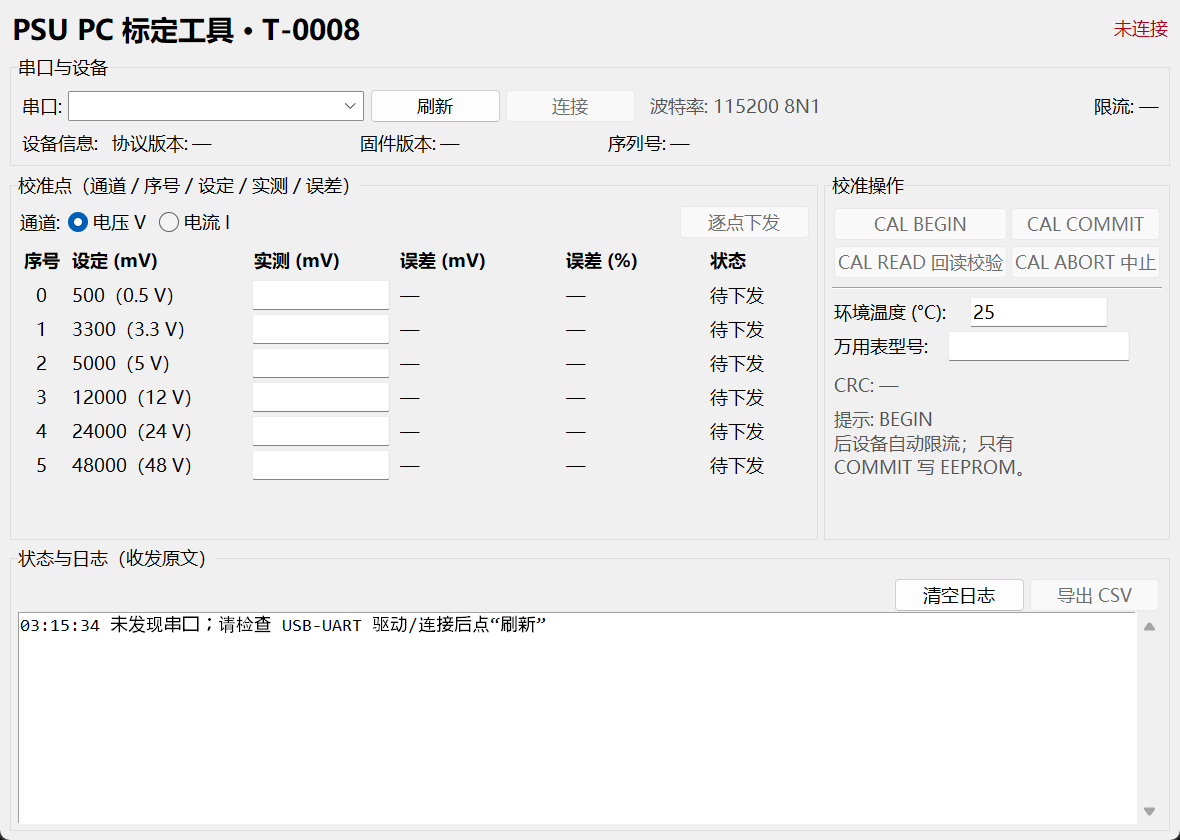
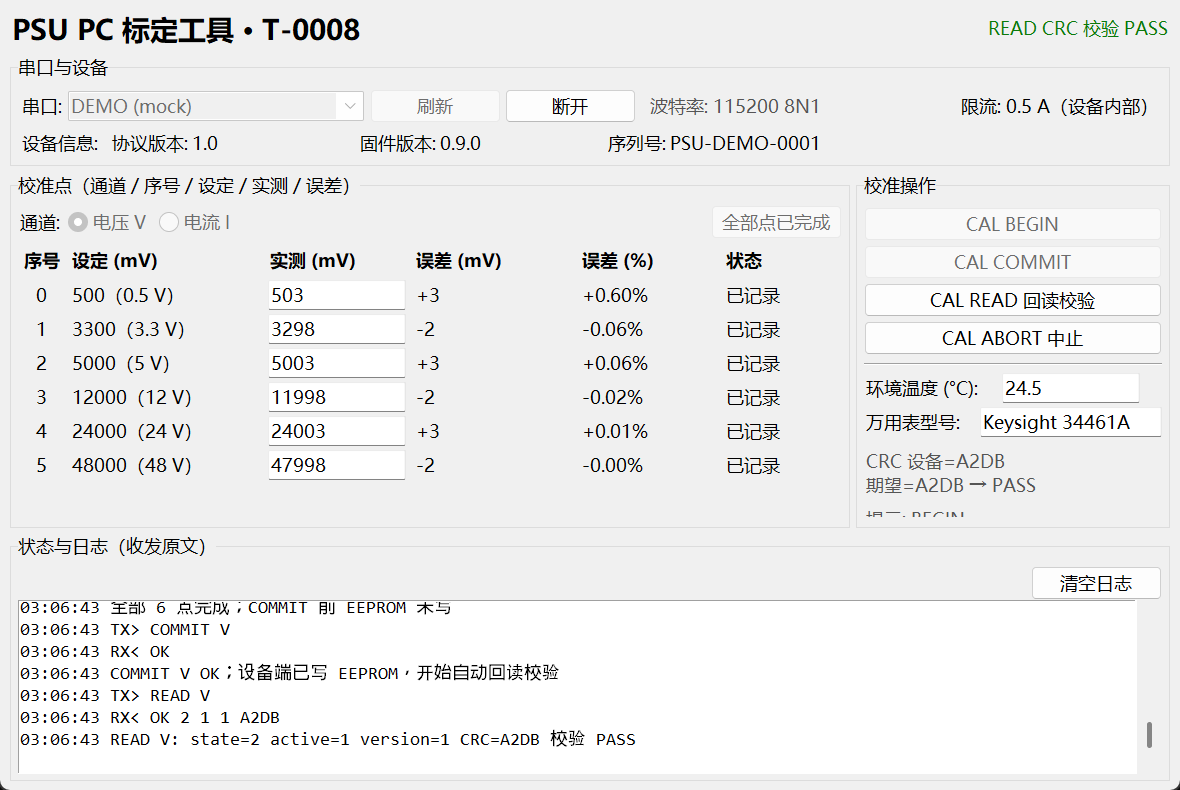
docs(T-0008): 改前截图换为早期布局对照

diff --git a/.agent/worklogs/T-0008.md b/.agent/worklogs/T-0008.md
@@ -14,15 +14,15 @@
 - 新增 `tools/README.md`：安装/启动/截图、操作流程、协议原文、异常安全、PyInstaller 单文件打包。
 - 安全路径：串口断开/超时/设备 ERR/输入非法均自动 `ABORT`、不 COMMIT；连接状态与限流值可见；输入记录后锁定，避免 CSV 与设备点表不一致。
 - 测试：`--selftest` PASS（INFO、V 6 点、I 3 点、CRC、ERR、非法输入、CSV）；临时 UI 集成测试 17/17 PASS（含 CSV 17 列、手动 ABORT、非法输入 ABORT、设备 ERR、超时、CRC 失配 FAIL）。
-- 截图：`.agent/evidence/T-0008-p0-ui-before.png`（启动/未连接空态）与 `T-0008-p0-ui-after.png`（DEMO 完成 V 6 点 + CRC PASS，最大误差 3 mV），均 1180×840。
+- 截图：`.agent/evidence/T-0008-p0-ui-before.png`（早期 1180×790 布局，导出/表格被裁）与 `T-0008-p0-ui-after.png`（最终 1180×840，DEMO 完成 V 6 点 + CRC PASS，最大误差 3 mV）。
 - 文档未改：`.agent/requirements.md`、`docs/`、看板均未动；T-0006 命令名差异与 INFO/READ 回包假设已写入 README/未决问题。
 - 内容提交 C1=6e06340（11 文件 +1066 行）：`git diff --cached --check` exit 0；`git push origin HEAD:refs/heads/master` 输出 `d3353ac..6e06340  HEAD -> master`；`git ls-remote` 同 SHA。
 - 已写 `.agent/evidence/T-0008-p0-sha.txt`（COMMIT/LOCAL_HEAD/REMOTE_HEAD/ls-remote 原文）；C2=9c99c7f 记录 SHA/g0/worklog 并 push。
-- 证据门禁修复：补交改前/改后两张 P0 截图（before=启动空态、after=完成校准态），更新 ui.txt/README/acceptance/g0/tests；待 C3 push。
+- 证据门禁修复：C3=0ead30d 补交改前/改后两张 P0 截图；C4 将 before 换成早期 790 高布局截图，增强对照。
 
 ## 下一步
 
-- 提交 C3（两张截图+证据引用+worklog）并 push master；复核 LOCAL_HEAD==REMOTE_HEAD；输出报告。
+- 提交 C4（改前截图/ui.txt/tests/acceptance/worklog）并 push master；复核 LOCAL_HEAD==REMOTE_HEAD；输出报告。
 
 ## 已验证命令
 
